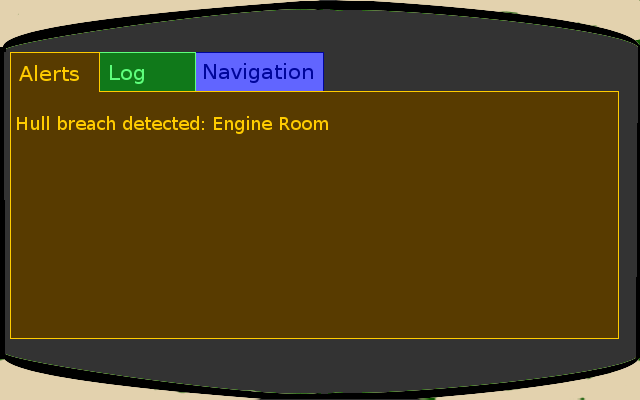
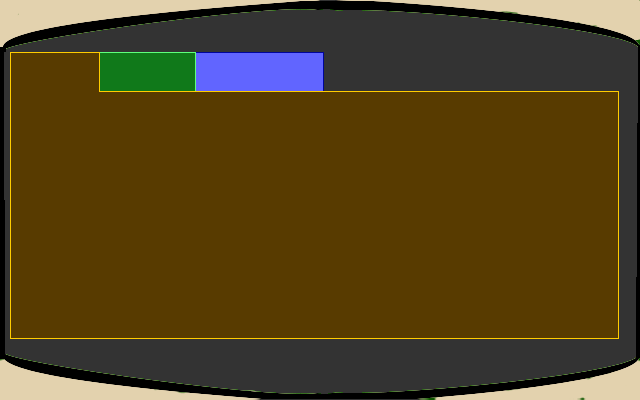
More textification

diff --git a/gamelib/scenes/bridge.py b/gamelib/scenes/bridge.py
@@ -569,8 +569,9 @@ class BridgeCompDetail(Scene):
     ALERT_OFFSET = (16, 100)
     ALERT_SPACING = 4
 
-    LOGS = ['comp_log_start.png', 'comp_log_1.png',
-            'comp_log_end.png']
+    LOG_BACKGROUND = 'comp_log_start.png'
+
+    LOGS = [_("<Error: Log corrupted. Unable to open Log>")]
 
     NAVIGATION = 'bridge_nav_base.png'
 
@@ -598,8 +599,9 @@ class BridgeCompDetail(Scene):
         self._alert_messages = {}
         self._nav_messages = {}
         for key, text in self.ALERTS.iteritems():
-            self._alert_messages[key] = render_text(text, 'DejaVuSans-Bold.ttf',
-                    18, 'orange', (0, 0, 0, 0), self.resource, (600, 25), False)
+            self._alert_messages[key] = render_text(text,
+                    'DejaVuSans-Bold.ttf', 18, 'orange', (0, 0, 0, 0),
+                    self.resource, (600, 25), False)
         self._nav_background = self.get_image(self.FOLDER, self.NAVIGATION)
         #for key, name in self.NAVIGATION.iteritems():
         #    self._nav_messages[key] = self.get_image(self.FOLDER, name)
@@ -615,7 +617,14 @@ class BridgeCompDetail(Scene):
             _("4. Achene Space Port, Indica Prspinosame (1621 days)")))
         self._nav_lines.append(DestNavPageLine(5, (12, 239, 610, 25), True,
             _("5. Opioid Space Port, Gelatinosa Prime (1963 days)")))
-        self._logs = [self.get_image(self.FOLDER, x) for x in self.LOGS]
+        self._log_background = self.get_image(self.FOLDER, self.LOG_BACKGROUND)
+        self._logs = []
+        for text in self.LOGS:
+            log_page = self._log_background.copy()
+            log_page.blit(render_text(text, 'DejaVuSans-Bold.ttf', 18,
+                'lightgreen', (0, 0, 0, 0), self.resource, (600, 25), False),
+                self.ALERT_OFFSET)
+            self._logs.append(log_page)
 
     def enter(self):
         self._scene_playlist = self.sound.get_current_playlist()
@@ -633,13 +642,8 @@ class BridgeCompDetail(Scene):
         elif self.get_data('tab') == 'log':
             self._clear_navigation()
             self._background = self._logs[self.get_data('log page')].copy()
-            self._draw_log()
         elif self.get_data('tab') == 'nav':
             self._background = self._get_nav_page()
-
-    def _draw_log(self):
-        """Add the log contents to the page"""
-        pass
 
     def _clear_navigation(self):
         "Remove navigation things if necessary"
@@ -678,7 +682,8 @@ class BridgeCompDetail(Scene):
             ypos += (self._alert_messages['ai offline'].get_size()[1]
                      + self.ALERT_SPACING)
         if not self.game.scenes['engine'].get_data('engine online'):
-            self._background.blit(self._alert_messages['engine offline'], (xpos, ypos))
+            self._background.blit(self._alert_messages['engine offline'],
+                    (xpos, ypos))
             ypos += (self._alert_messages['engine offline'].get_size()[1]
                      + self.ALERT_SPACING)
         if (self.game.scenes['mess'].get_data('life support status')
